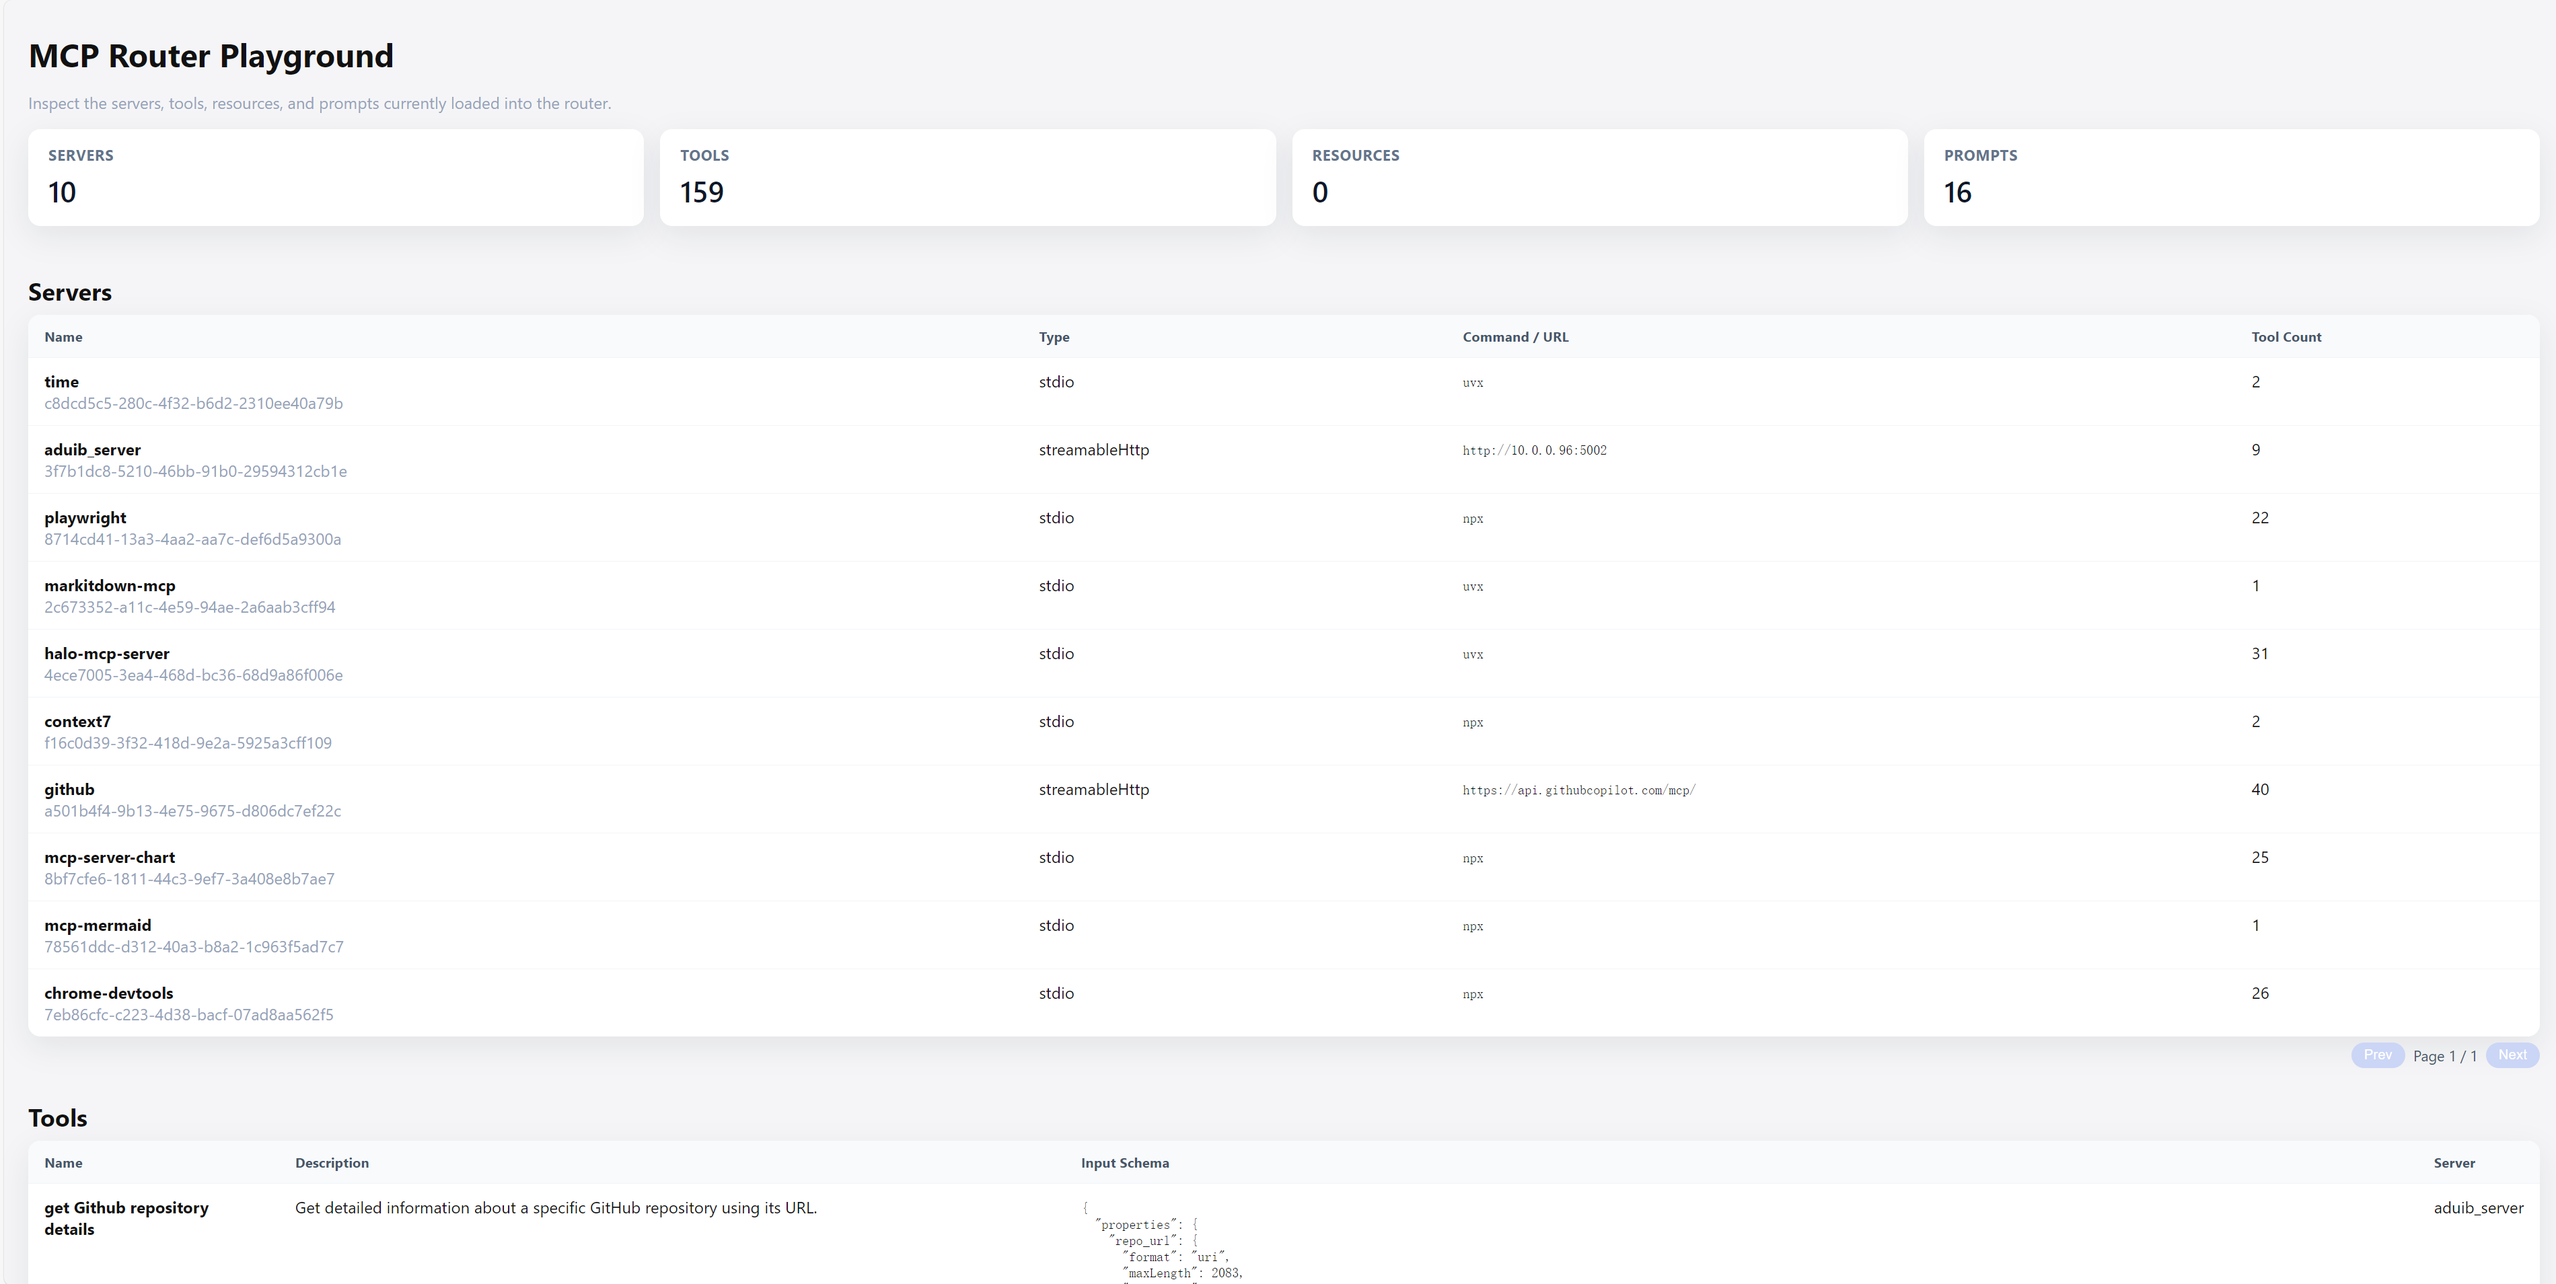
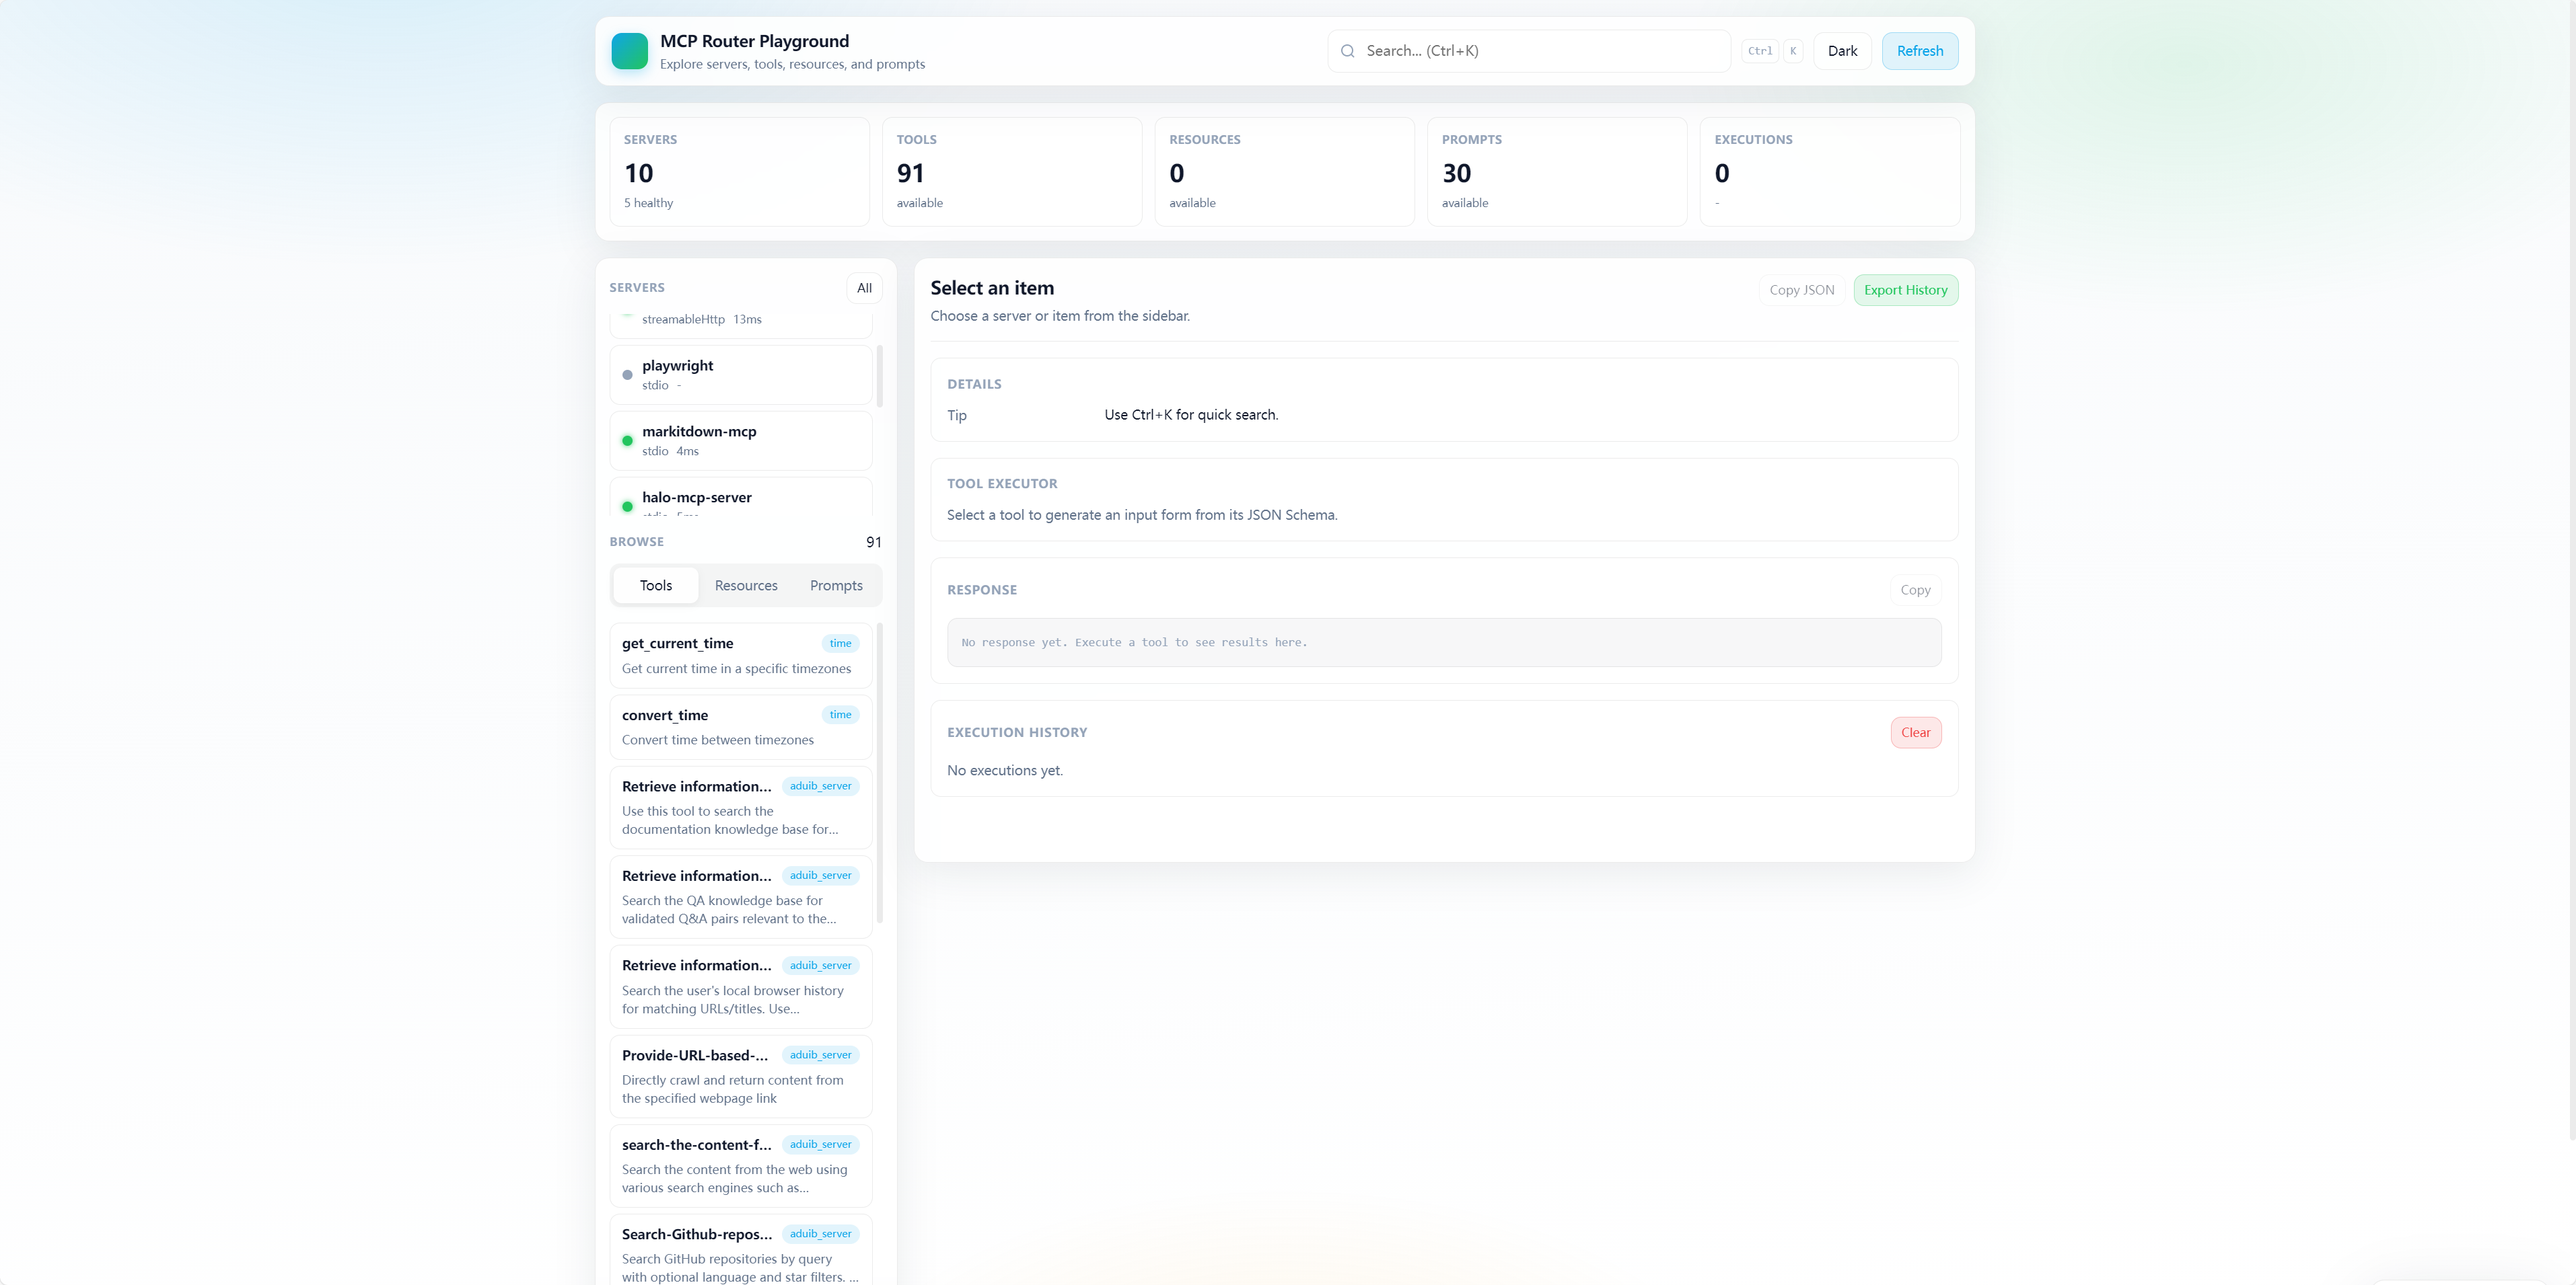
docs: update README with configuration options for caching and health checks

diff --git a/README.md b/README.md
@@ -37,13 +37,56 @@ Aduib MCP Router 是一个多MCP聚合路由器，支持多种MCP协议，旨在
     }
    ```
 
+## 配置项
+
+### 环境变量
+
+| 变量名 | 默认值 | 说明 |
+|--------|--------|------|
+| `MCP_CONFIG_PATH` | - | MCP 服务器配置文件路径（本地路径或远程 URL） |
+| `ROUTER_HOME` | `~/.aduib_mcp_router` | 路由器主目录 |
+
+### 缓存配置
+
+| 变量名 | 默认值 | 说明 |
+|--------|--------|------|
+| `MCP_CACHE_TTL` | 300 | 服务器特征缓存有效期（秒） |
+| `MCP_CACHE_STALE_TTL` | 600 | 过期缓存仍可用的最大时间（秒） |
+| `MCP_ENABLE_AUTO_REFRESH` | true | 是否启用后台自动刷新 |
+
+缓存采用 **Stale-While-Revalidate** 策略：
+- 缓存有效期内直接返回缓存数据
+- 缓存过期但未超过 stale TTL 时，立即返回旧数据并在后台刷新
+- 完全过期后同步刷新
+
+### 健康检查配置
+
+| 变量名 | 默认值 | 说明 |
+|--------|--------|------|
+| `MCP_HEALTH_CHECK_INTERVAL` | 30 | 健康检查间隔（秒） |
+| `MCP_HEALTH_CHECK_TIMEOUT` | 10 | 健康检查超时（秒） |
+| `MCP_MAX_CONSECUTIVE_FAILURES` | 3 | 连续失败次数阈值 |
+| `MCP_AUTO_RECONNECT` | true | 自动重连开关 |
+| `MCP_RECONNECT_DELAY` | 5 | 重连延迟（秒） |
+
+### 连接配置
+
+| 变量名 | 默认值 | 说明 |
+|--------|--------|------|
+| `MCP_CONNECTION_TIMEOUT` | 600 | SSE/HTTP 连接超时（秒） |
+| `MCP_REFRESH_INTERVAL` | 1800 | 配置刷新间隔（秒） |
+
 ## Playground
+
 Playground 是一个内置的可视化调试界面，用于快速体验和验证多 MCP Server 的聚合效果。通过单页交互式工具面板，可以：
 
-- 浏览当前路由器已加载的所有远程工具；
-- 查看工具的名称、描述等基础信息；
-- 在界面上直接触发调用，快速验证路由链路是否可用；
-- 观察返回数据，方便调试和演示。
+- 浏览当前路由器已加载的所有远程工具、资源和提示词
+- 查看工具的名称、描述、输入 Schema 等详细信息
+- 实时查看各 MCP 服务器的健康状态
+- 在界面上直接触发调用，快速验证路由链路是否可用
+- 观察返回数据，支持导出执行历史
+
+访问地址：`http://localhost:<port>/playground`
 
 ![Playground](docs/playground.png)
 
